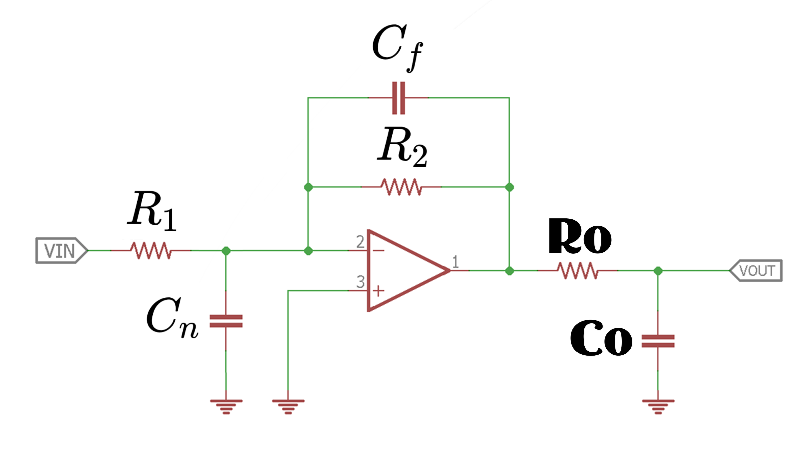
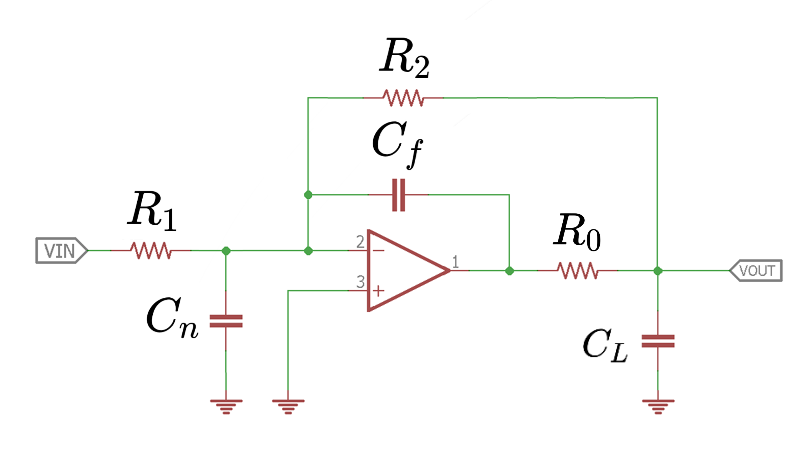
first commit

diff --git a/_posts/2022-08-30-opa.md b/_posts/2022-08-30-opa.md
@@ -202,7 +202,11 @@ function multiplyBy6()
 
 ## 電路中的補償
 
-將反相<font color="#FF1000">輸入</font>相關的所有寄生電容用一個等效電容 $C_n$ 代替。 $C_n$ 和周圍電路提供給它的電阻 $R_1$ 及 $R_2$ 在反饋迴路內建立了一個極點頻率。 因此，在環路中傳播的信號將不得不與兩個極點發生衝突，一個由運算放大器引起，另一個由 $C_n$ 引起，存在相移接近 180° 的風險，從而危及電路穩定性。對抗由 $C_n$ 引起的相位滯後的常用方法是通過 $R_2$ 兩端的反饋電容 $C_f$ 引入相位超前。
+滯後補償和超前補償是常用於穩定運算放大器電路的兩種頻率補償方法。
+
+<font color="#FF1000">輸入</font>相關的所有寄生電容用一個等效電容 $C_n$ 代替。 $C_n$ 和周圍電路提供給它的電阻 $R_1$ 及 $R_2$ 在反饋迴路內建立了一個極點頻率。 因此，在環路中傳播的信號將不得不與兩個極點發生衝突，一個由運算放大器引起，另一個由 $C_n$ 引起，存在相移接近 180° 的風險，從而危及電路穩定性。
+
+解決對由 $C_n$ 引起的相位<font color="#FF1000">滯後</font>的常用方法是通過 $R_2$ 兩端的反饋電容 $C_f$ 引入相位<font color="#FF1000">超前</font>。
 
 補償電容 $C_f$ 主要有兩個作用:
 
@@ -212,36 +216,31 @@ function multiplyBy6()
 
 $$  \frac{R_1}{R_2} = \frac{C_f}{C_n}$$
 
-![Alt text](../assets/img/misc/oppshift.jpg)
+![Alt text](../assets/img/misc/oppshift.png)
 
 如沒有 $C_f$ 當輸入信號的頻率很高時，$C_n$ 的旁路作用使放大器的高頻響應變差，其頻帶的上限頻率約爲:
 
-$$ f_{cn} = \frac {1}{2 \pi R_2 C_n } $$
+$$ f_{ω} = \frac {1}{2 \pi R_2 C_n } $$
 
-若 $R_f$ 的阻值較大，放大器的上限頻率就將嚴重下降，同時 $C_n$、$R_2$ 引入的相位<font color="#FF1000">滯後</font>可能引起寄生振盪，因而產生穩定性問題。
+若 $R_2$ 的阻值較大，放大器的上限頻率就將嚴重下降，同時 $C_n$、$R_2$ 引入的相位<font color="#FF1000">滯後</font>可能引起寄生振盪，因而產生穩定性問題。
 
-簡單的解決方法是減小 $R_2$ 的阻值，使 $f_{cn}$ 高出實際應用的頻率範圍，但這種方法將使運算放大器的電壓放大倍數 $-\frac{R_2}{R_1}$ 下降。
+簡單的解決方法是減小 $R_2$ 的阻值，使 $f_{ω}$ 高出實際應用的頻率範圍，但這種方法將使運算放大器的電壓放大倍數 $-\frac{R_2}{R_1}$ 下降。
 
 如要保持放大電路的電壓放大倍數，可在 $R_2$ 上並接一個補償電容 $C_f$ ，因 $R_2 C_f $ 將引起輸出電壓相位<font color="#FF1000">超前</font>。使 $R_2 C_f$ 與 $R_2 C_n$ 電路構成相位互補。
 
-由於不能準確知道 $C_n$ 的值，所以一般採用可變電容 $C_f$，用測量及調整 $C_f$ 的方法使附加相移最小。若 $R_2=10kΩ,C_f$ 的典型值絲邊 *3～10pF*。對於電壓跟隨器而言，其 $C_f$ 值可以稍大一些。
+由於不能準確知道 $C_n$ 的值，所以一般採用可變電容 $C_f$，用測量及調整 $C_f$ 的方法使附加相移最小。若 $R_2=10kΩ,C_f$ 的典型值約 *3～10pF*。對於電壓跟隨器而言，其 $C_f$ 值可以稍大一些。
 
+<font color="#FF1000">輸出</font>相關負載電容 $C_L$ 的值比 *100pF* 大很多，由於輸出電容(包括寄生電容)與輸出電阻將造成附加相移，可能產生寄生振盪。
 
 ![Alt text](../assets/img/misc/opco.png)
 
-若輸出負載電容 $C_L$ 的值比 *100pF* 大很多，由於輸出電容(包括寄生電容)與輸出電阻將造成附加相移，可能產生寄生振盪。
-
 解決這問題的方法是在輸出端串聯一個電阻 $R_o$，使負載電容 $C_L$ 與電路相位隔離，在 $R_o$ 的後面接反饋電阻 $R_2$，可補償直流衰減，加反饋電容 $C_f$ 會降低高頻閉環電壓放大倍數， $C_f$ 的選取方法是：
 
-電路增益頻率 $f_T$ 時的容抗
+電路增益頻率 $f_ω$ 時的容抗
 
 $$X_{cf} ≤ \frac{R_2}{10}$$
-$$X_{cf} = \frac{l}{2\pi f_T C_f}$$
-一般情況下，$R_o=50～200 Ω$，$C_f$ 約爲 3～10 $pF$。
+$$X_{cf} = \frac{l}{2\pi f_ω C_f}$$
+
+一般情況下，$R_0=50～200 Ω$，$C_f$ 約爲 3～10 $pF$。
 
 除上述外，還存在其它不穩定因素。使用適當的補償方法，可使問題迎刃而解。例如。當放大器不需要太寬的頻帶和最佳轉換速率時，將補償電容倍數增加或爲實現穩定性所需要的倍數，其效果一般都較好。
-
-
-
-
-
